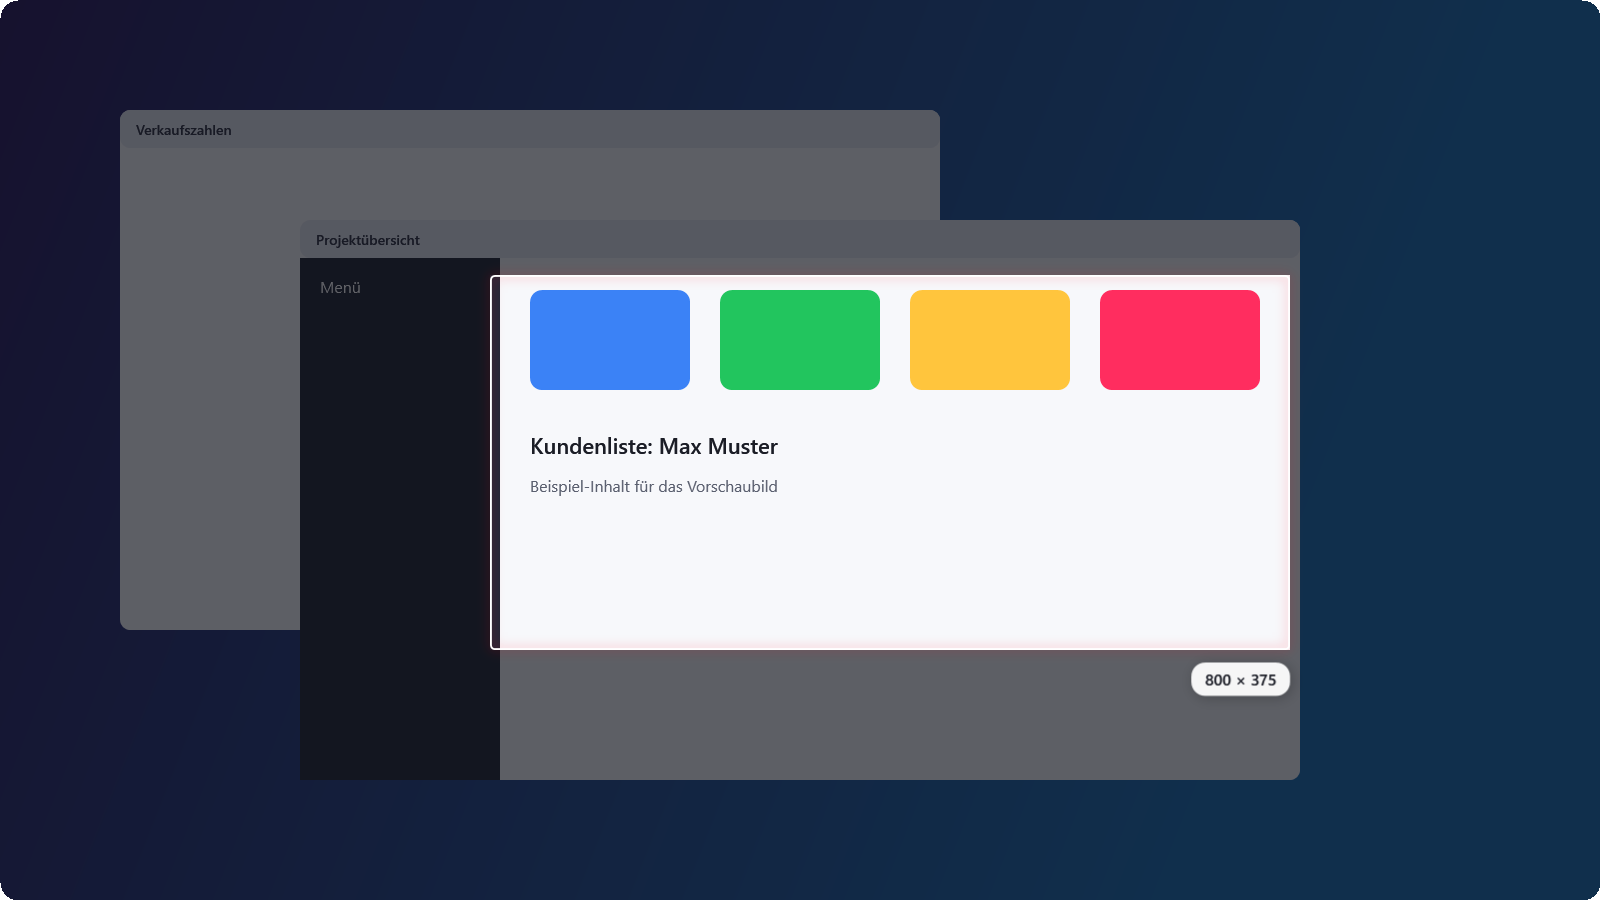
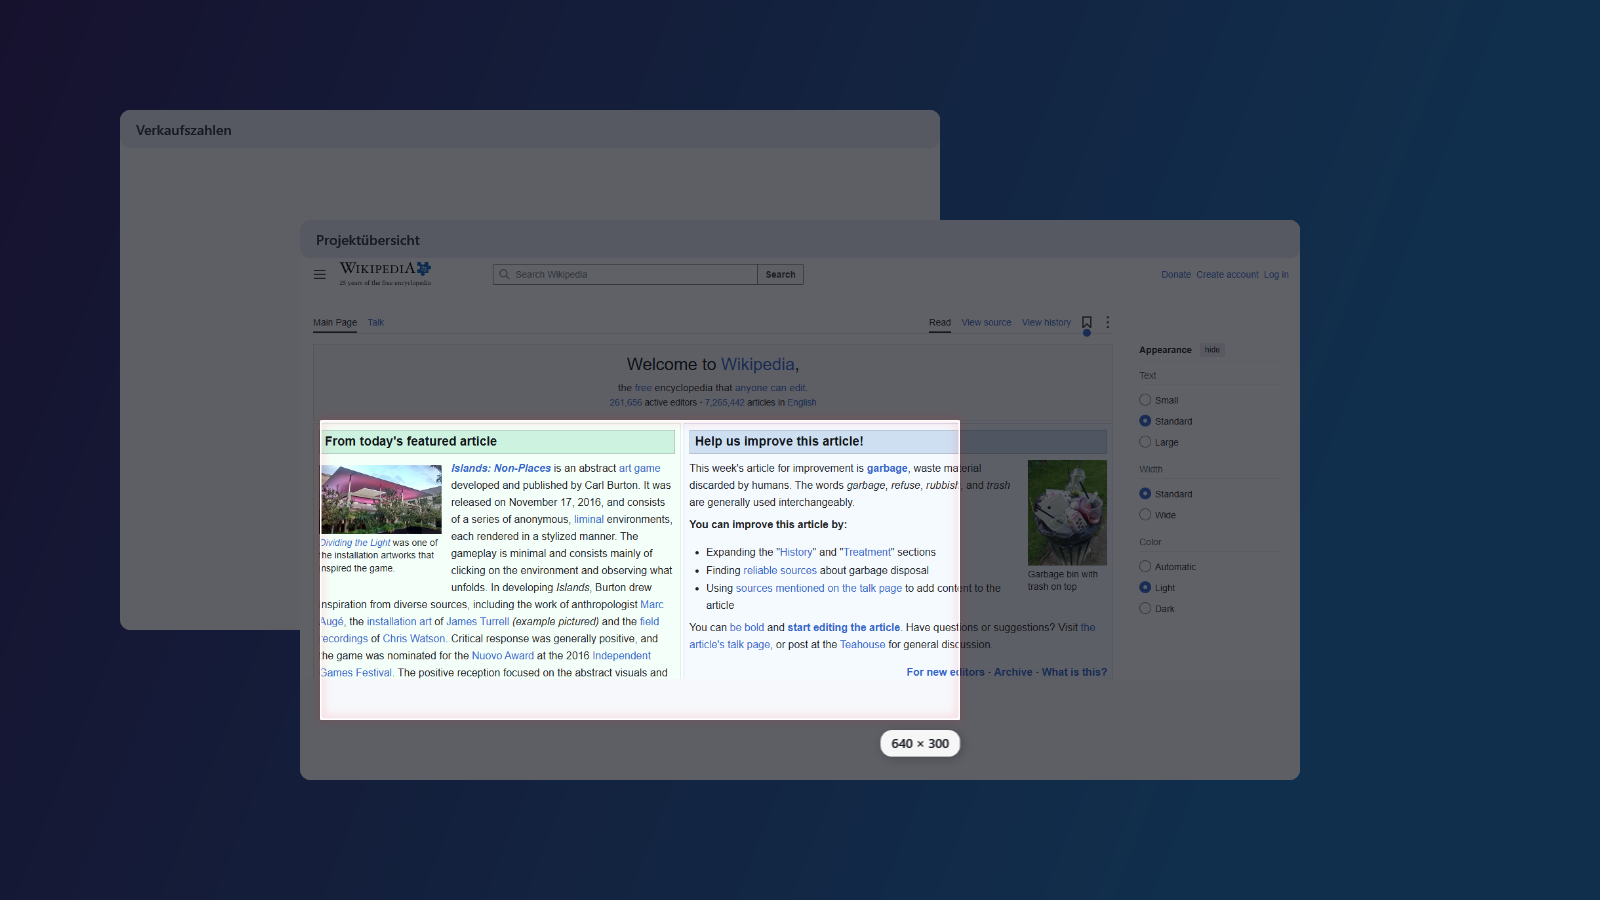
Vorschaubilder mit Wikipedia-Ausschnitt, Selbsttest mit --bild

Changed region(s): [[0.1875, 0.28, 0.8125, 0.8711], [0.9688, 0.9956, 1.0, 1.0], [0.0, 0.9956, 0.0312, 1.0]]

diff --git a/src/Snapper/SelfTest.cs b/src/Snapper/SelfTest.cs
@@ -13,11 +13,26 @@ namespace Snapper;
 /// </summary>
 internal static class SelfTest
 {
-    public static void Run(string outDir)
+    /// <summary>Optionales Vorlagenbild ("--bild datei.png"). Gesetzt = echte Seite statt erfundener Inhalt.</summary>
+    internal static BitmapSource? Photo;
+
+    public static void Run(string outDir, string? photoPath = null)
     {
         Directory.CreateDirectory(outDir);
         EditorWindow.SkipUpdateCheck = true;
-        var sample = MakeSample(1000, 400);
+        if (photoPath != null)
+        {
+            var bi = new BitmapImage();
+            bi.BeginInit();
+            bi.CacheOption = BitmapCacheOption.OnLoad;
+            bi.UriSource = new Uri(Path.GetFullPath(photoPath));
+            bi.EndInit();
+            var pc = new FormatConvertedBitmap(bi, PixelFormats.Bgra32, null, 0);
+            pc.Freeze();
+            Photo = pc;
+        }
+        var sample = Photo != null ? new CroppedBitmap(Photo, new Int32Rect(20, 235, 1000, 400)) : MakeSample(1000, 400);
+        sample.Freeze();
         // Fenster weit außerhalb des Bildschirms, damit nichts aufblitzt.
         var fake = new ScreenShot(-32000, 0, 5120, 1440, 1.25, true, sample);
         var ed = new EditorWindow(sample, fake) { ShowActivated = false, ShowInTaskbar = false };
@@ -56,7 +71,7 @@ internal static class SelfTest
             t.Stop();
             try
             {
-                ov.DemoSelect(new Point(392, 220), new Point(1032, 520));
+                if (Photo != null) ov.DemoSelect(new Point(320, 420), new Point(960, 720)); else ov.DemoSelect(new Point(392, 220), new Point(1032, 520));
                 ov.UpdateLayout();
                 double dpi = VisualTreeHelper.GetDpi(ov).DpiScaleX;
                 int pw = (int)Math.Round(ov.ActualWidth * dpi), ph = (int)Math.Round(ov.ActualHeight * dpi);
@@ -92,6 +107,12 @@ internal static class SelfTest
             Win(120, 110, 820, 520, "Verkaufszahlen");
             Win(300, 220, 1000, 560, "Projektübersicht");
 
+            if (Photo != null)
+            {
+                double sc = 1000.0 / Photo.PixelWidth;
+                dc.DrawImage(Photo, new Rect(300, 258, 1000, Photo.PixelHeight * sc));
+                goto done;
+            }
             // Inhalt des vorderen Fensters
             dc.DrawRectangle(new SolidColorBrush(Color.FromRgb(0x23, 0x27, 0x36)), null, new Rect(300, 258, 200, 522));
             dc.DrawText(new FormattedText("Menü", ci, FlowDirection.LeftToRight, new Typeface("Segoe UI"), 16, Brushes.White, 1.0), new Point(320, 276));
@@ -103,6 +124,7 @@ internal static class SelfTest
                 new SolidColorBrush(Color.FromRgb(0x1B, 0x1D, 0x26)), 1.0), new Point(530, 430));
             dc.DrawText(new FormattedText("Beispiel-Inhalt für das Vorschaubild", ci, FlowDirection.LeftToRight, new Typeface("Segoe UI"), 16,
                 new SolidColorBrush(Color.FromRgb(0x5B, 0x60, 0x70)), 1.0), new Point(530, 475));
+            done:;
         }
         var rtb = new RenderTargetBitmap(w, h, 96, 96, PixelFormats.Pbgra32);
         rtb.Render(dv);

diff --git a/src/Snapper/EditorWindow.SelfTest.cs b/src/Snapper/EditorWindow.SelfTest.cs
@@ -24,7 +24,8 @@ public partial class EditorWindow
         }
 
         // Pfeile in allen Stilen
-        Arrow(ArrowStyle.Skitch, "#FF2D5F", 1, new Point(250, 350), new Point(520, 250));
+        bool ph1 = SelfTest.Photo != null;
+        Arrow(ArrowStyle.Skitch, "#FF2D5F", 1, ph1 ? new Point(330, 300) : new Point(250, 350), ph1 ? new Point(300, 112) : new Point(520, 250));
         Arrow(ArrowStyle.Doppel, "#3B82F6", 1, new Point(640, 360), new Point(930, 360));
         Arrow(ArrowStyle.Dick, "#22C55E", 1, new Point(640, 300), new Point(930, 290));
         Arrow(ArrowStyle.Gerade, "#1B1D26", 1, new Point(580, 150), new Point(500, 160));
@@ -35,24 +36,25 @@ public partial class EditorWindow
         SetTool(Tool.Rect);
         SetColor(C("#FF2D5F"));
         _sizeIdx = 1;
-        BeginDraw(new Point(248, 28));
-        UpdatePreview(new Point(300, 80));
-        UpdatePreview(new Point(422, 142));
-        EndDraw(new Point(422, 142));
+        bool ph0 = SelfTest.Photo != null;
+        BeginDraw(ph0 ? new Point(203, 70) : new Point(248, 28));
+        UpdatePreview(ph0 ? new Point(280, 90) : new Point(300, 80));
+        UpdatePreview(ph0 ? new Point(364, 102) : new Point(422, 142));
+        EndDraw(ph0 ? new Point(364, 102) : new Point(422, 142));
 
         // Verpixeln der "Kontonummer"
         SetTool(Tool.Pixelate);
         _sizeIdx = 1;
-        BeginDraw(new Point(590, 184));
-        UpdatePreview(new Point(700, 210));
-        UpdatePreview(new Point(840, 228));
-        EndDraw(new Point(840, 228));
+        BeginDraw(ph0 ? new Point(408, 99) : new Point(590, 184));
+        UpdatePreview(ph0 ? new Point(450, 110) : new Point(700, 210));
+        UpdatePreview(ph0 ? new Point(500, 123) : new Point(840, 228));
+        EndDraw(ph0 ? new Point(500, 123) : new Point(840, 228));
 
         // Text
         SetTool(Tool.Text);
         SetColor(C("#FF2D5F"));
         _sizeIdx = 1;
-        BeginDraw(new Point(270, 330));
+        BeginDraw(ph1 ? new Point(250, 305) : new Point(270, 330));
         if (_edit != null) _edit.Text = "Hier klicken!";
         CommitText();
 

diff --git a/src/Snapper/App.xaml.cs b/src/Snapper/App.xaml.cs
@@ -25,7 +25,8 @@ public partial class App : Application
         int i = Array.IndexOf(e.Args, "--selftest");
         if (i >= 0 && i + 1 < e.Args.Length)
         {
-            SelfTest.Run(e.Args[i + 1]);
+            int b = Array.IndexOf(e.Args, "--bild");
+            SelfTest.Run(e.Args[i + 1], b >= 0 && b + 1 < e.Args.Length ? e.Args[b + 1] : null);
             return;
         }
         BeginCapture();

diff --git a/README.md b/README.md
@@ -14,7 +14,7 @@ Die Auswahl: Bildschirm einfrieren, Bereich aufziehen, Größe wird angezeigt:
 
 ![Die Bereichsauswahl](docs/auswahl.png)
 
-(Beispielbilder mit erfundenem Inhalt.)
+(Beispielbilder mit einem Ausschnitt der Wikipedia-Hauptseite, Text unter [CC BY-SA 4.0](https://creativecommons.org/licenses/by-sa/4.0/deed.de), Autoren siehe [Wikipedia](https://en.wikipedia.org/wiki/Main_Page).)
 
 ## Funktionen
 
@@ -71,6 +71,8 @@ src\Snapper\bin\Debug\net10.0-windows\Snapper.exe --selftest C:\Temp\snapper-tes
 ```
 
 Zeichnet per Code in einen Beispiel-Ausschnitt und legt `result.png` (fertiges Bild), `window.png` (Editor) und `info.txt` ab. Es werden keine Mausklicks simuliert.
+
+Optional mit eigenem Vorlagenbild (so entstehen die Bilder in `docs\`): `--bild docs\wikipedia.png` anhängen.
 
 ## Noch nicht drin
 
